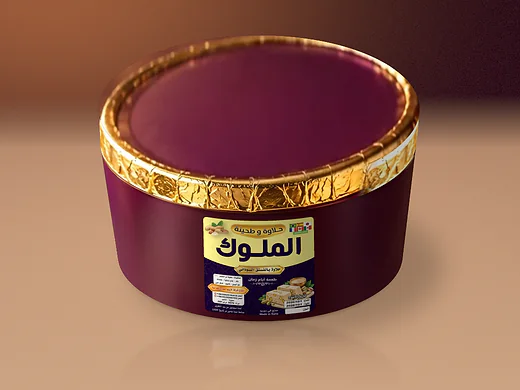
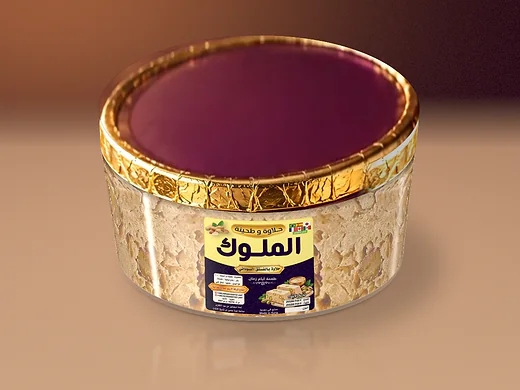
Show the halva in clear tubs and restage the tahini jar
- Tubs are now clear plastic, like standard halva tubs: the halva is seen
  through the wall (texture taken from one continuous region of the real
  halva block, pits softened as if pressed against the wall), with
  cylinder shading, Fresnel edges, vertical specular streaks, a clear rim
  and base ring. Al-Molouk's halva shows peanut-coloured pieces; it keeps
  its gold-foil lid. Labels stay wrapped on the front.
- Tahini jar cut out of its photo (GrabCut inside a geometric outline)
  and placed on the same studio backdrop with shadow and reflection, so
  the three product cards match; old tahini photo removed.
- Gallery duo image rebuilt with the clear tubs; alt texts, JSON-LD image
  and CSP hash updated.

Claude-Session: https://claude.ai/code/session_018VEN59gGZGc4vHCjc4ytEc

Changed region(s): [[0.1846, 0.4, 0.8, 0.8308]]

diff --git a/index.html b/index.html
@@ -64,7 +64,7 @@
       {
         "@type": "Product",
         "name": "طحينة السمسم من لارينوو",
-        "image": "https://larinoo.com/assets/images/larino-package-tahini-1200w.webp",
+        "image": "https://larinoo.com/assets/images/larino-jar-tahini-1040w.webp",
         "description": "طحينة سمسم سورية نقية بقوام ناعم ونكهة سمسم واضحة",
         "category": "طحينة السمسم",
         "brand": { "@type": "Brand", "name": "لارينوو" },
@@ -221,7 +221,7 @@
         <div class="products__grid reveal">
           <article class="product-card">
             <div class="product-card__media">
-              <img src="/assets/images/larino-tub-larinoo-1040w.webp" srcset="/assets/images/larino-tub-larinoo-520w.webp 520w, /assets/images/larino-tub-larinoo-780w.webp 780w, /assets/images/larino-tub-larinoo-1040w.webp 1040w" sizes="(min-width: 1280px) 395px, (min-width: 1024px) 31vw, (min-width: 640px) 47vw, 100vw" width="1040" height="780" loading="lazy" decoding="async" alt="علبة حلاوة لارينوو بالفستق الحلبي مفتوحة وعليها ملصق لارينوو">
+              <img src="/assets/images/larino-tub-larinoo-1040w.webp" srcset="/assets/images/larino-tub-larinoo-520w.webp 520w, /assets/images/larino-tub-larinoo-780w.webp 780w, /assets/images/larino-tub-larinoo-1040w.webp 1040w" sizes="(min-width: 1280px) 395px, (min-width: 1024px) 31vw, (min-width: 640px) 47vw, 100vw" width="1040" height="780" loading="lazy" decoding="async" alt="علبة شفافة مفتوحة من حلاوة لارينوو بالفستق الحلبي وعليها ملصق لارينوو">
             </div>
             <div class="product-card__body">
               <p class="product-card__category">علامة لارينوو</p>
@@ -241,14 +241,14 @@
                 data-storage="يُحفظ في مكان بارد وجاف بعيداً عن أشعة الشمس ويُغلق جيداً بعد الفتح، وهو صالح لمدة عامين من تاريخ الإنتاج"
                 data-src="/assets/images/larino-tub-larinoo-1040w.webp"
                 data-srcset="/assets/images/larino-tub-larinoo-520w.webp 520w, /assets/images/larino-tub-larinoo-780w.webp 780w, /assets/images/larino-tub-larinoo-1040w.webp 1040w"
-                data-alt="علبة حلاوة لارينوو بالفستق الحلبي مفتوحة وعليها ملصق لارينوو">
+                data-alt="علبة شفافة مفتوحة من حلاوة لارينوو بالفستق الحلبي وعليها ملصق لارينوو">
                 تفاصيل المنتج <svg class="ic ic--16" aria-hidden="true"><use href="#i-arrow-left"/></svg>
               </button>
             </div>
           </article>
           <article class="product-card">
             <div class="product-card__media">
-              <img src="/assets/images/larino-tub-molouk-1040w.webp" srcset="/assets/images/larino-tub-molouk-520w.webp 520w, /assets/images/larino-tub-molouk-780w.webp 780w, /assets/images/larino-tub-molouk-1040w.webp 1040w" sizes="(min-width: 1280px) 395px, (min-width: 1024px) 31vw, (min-width: 640px) 47vw, 100vw" width="1040" height="780" loading="lazy" decoding="async" alt="علبة حلاوة الملوك بالفستق السوداني مغلقة وعليها ملصق الملوك">
+              <img src="/assets/images/larino-tub-molouk-1040w.webp" srcset="/assets/images/larino-tub-molouk-520w.webp 520w, /assets/images/larino-tub-molouk-780w.webp 780w, /assets/images/larino-tub-molouk-1040w.webp 1040w" sizes="(min-width: 1280px) 395px, (min-width: 1024px) 31vw, (min-width: 640px) 47vw, 100vw" width="1040" height="780" loading="lazy" decoding="async" alt="علبة شفافة من حلاوة الملوك بالفستق السوداني بغطاء ذهبي وعليها ملصق الملوك">
             </div>
             <div class="product-card__body">
               <p class="product-card__category">علامة الملوك</p>
@@ -268,14 +268,14 @@
                 data-storage="يُحفظ في مكان بارد وجاف بعيداً عن أشعة الشمس ويُغلق جيداً بعد الفتح، وهو صالح لمدة عامين من تاريخ الإنتاج"
                 data-src="/assets/images/larino-tub-molouk-1040w.webp"
                 data-srcset="/assets/images/larino-tub-molouk-520w.webp 520w, /assets/images/larino-tub-molouk-780w.webp 780w, /assets/images/larino-tub-molouk-1040w.webp 1040w"
-                data-alt="علبة حلاوة الملوك بالفستق السوداني مغلقة وعليها ملصق الملوك">
+                data-alt="علبة شفافة من حلاوة الملوك بالفستق السوداني بغطاء ذهبي وعليها ملصق الملوك">
                 تفاصيل المنتج <svg class="ic ic--16" aria-hidden="true"><use href="#i-arrow-left"/></svg>
               </button>
             </div>
           </article>
           <article class="product-card">
             <div class="product-card__media">
-              <img src="/assets/images/larino-package-tahini-1200w.webp" srcset="/assets/images/larino-package-tahini-600w.webp 600w, /assets/images/larino-package-tahini-900w.webp 900w, /assets/images/larino-package-tahini-1200w.webp 1200w" sizes="(min-width: 1280px) 395px, (min-width: 1024px) 31vw, (min-width: 640px) 47vw, 100vw" width="1200" height="896" loading="lazy" decoding="async" alt="عبوة طحينة السمسم السورية من لارينوو">
+              <img src="/assets/images/larino-jar-tahini-1040w.webp" srcset="/assets/images/larino-jar-tahini-520w.webp 520w, /assets/images/larino-jar-tahini-780w.webp 780w, /assets/images/larino-jar-tahini-1040w.webp 1040w" sizes="(min-width: 1280px) 395px, (min-width: 1024px) 31vw, (min-width: 640px) 47vw, 100vw" width="1040" height="780" loading="lazy" decoding="async" alt="مرطبان زجاجي من طحينة السمسم السورية من لارينوو">
             </div>
             <div class="product-card__body">
               <p class="product-card__category">أساس النكهة</p>
@@ -293,9 +293,9 @@
                 data-description="طحينة سمسم سورية نقية بقوام ناعم ونكهة واضحة تشكل أساس الحلاوة التي نصنعها"
                 data-ingredients="السمسم"
                 data-storage="يُحفظ في مكان بارد وجاف ويُحرّك قبل الاستخدام ويُغلق جيداً بعد الفتح"
-                data-src="/assets/images/larino-package-tahini-1200w.webp"
-                data-srcset="/assets/images/larino-package-tahini-600w.webp 600w, /assets/images/larino-package-tahini-900w.webp 900w, /assets/images/larino-package-tahini-1200w.webp 1200w"
-                data-alt="عبوة طحينة السمسم السورية من لارينوو">
+                data-src="/assets/images/larino-jar-tahini-1040w.webp"
+                data-srcset="/assets/images/larino-jar-tahini-520w.webp 520w, /assets/images/larino-jar-tahini-780w.webp 780w, /assets/images/larino-jar-tahini-1040w.webp 1040w"
+                data-alt="مرطبان زجاجي من طحينة السمسم السورية من لارينوو">
                 تفاصيل المنتج <svg class="ic ic--16" aria-hidden="true"><use href="#i-arrow-left"/></svg>
               </button>
             </div>
@@ -328,9 +328,9 @@
             data-title="عبوات لارينوو والملوك" data-description="حلاوة الملوك بالفستق السوداني وحلاوة لارينوو بالفستق الحلبي"
             data-src="/assets/images/larino-tubs-duo-1200w.webp"
             data-srcset="/assets/images/larino-tubs-duo-600w.webp 600w, /assets/images/larino-tubs-duo-900w.webp 900w, /assets/images/larino-tubs-duo-1200w.webp 1200w"
-            data-alt="علبة حلاوة الملوك مغلقة خلف علبة حلاوة لارينوو مفتوحة وعلى كل منهما ملصقها"
+            data-alt="علبتان شفافتان: حلاوة الملوك مغلقة خلف حلاوة لارينوو مفتوحة وعلى كل منهما ملصقها"
             aria-label="تكبير صورة عبوات لارينوو والملوك">
-            <img src="/assets/images/larino-tubs-duo-900w.webp" srcset="/assets/images/larino-tubs-duo-600w.webp 600w, /assets/images/larino-tubs-duo-900w.webp 900w, /assets/images/larino-tubs-duo-1200w.webp 1200w" sizes="(min-width: 1280px) 385px, (min-width: 1024px) 31vw, 50vw" width="1200" height="896" loading="lazy" decoding="async" class="gallery__img" alt="علبة حلاوة الملوك مغلقة خلف علبة حلاوة لارينوو مفتوحة وعلى كل منهما ملصقها">
+            <img src="/assets/images/larino-tubs-duo-900w.webp" srcset="/assets/images/larino-tubs-duo-600w.webp 600w, /assets/images/larino-tubs-duo-900w.webp 900w, /assets/images/larino-tubs-duo-1200w.webp 1200w" sizes="(min-width: 1280px) 385px, (min-width: 1024px) 31vw, 50vw" width="1200" height="896" loading="lazy" decoding="async" class="gallery__img" alt="علبتان شفافتان: حلاوة الملوك مغلقة خلف حلاوة لارينوو مفتوحة وعلى كل منهما ملصقها">
             <span class="gallery__shade" aria-hidden="true"></span>
             <span class="gallery__caption"><b class="gallery__caption-title">عبوات لارينوو والملوك</b><svg class="ic ic--16" aria-hidden="true"><use href="#i-maximize"/></svg></span>
           </button>
